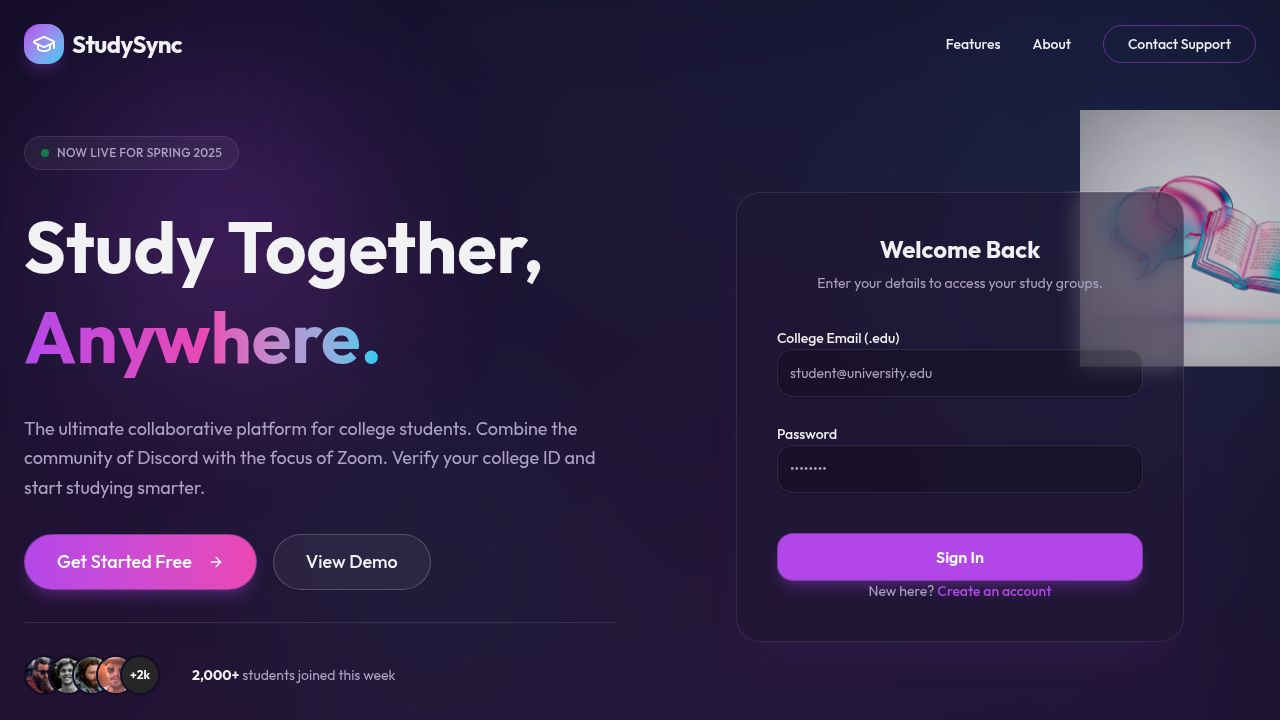
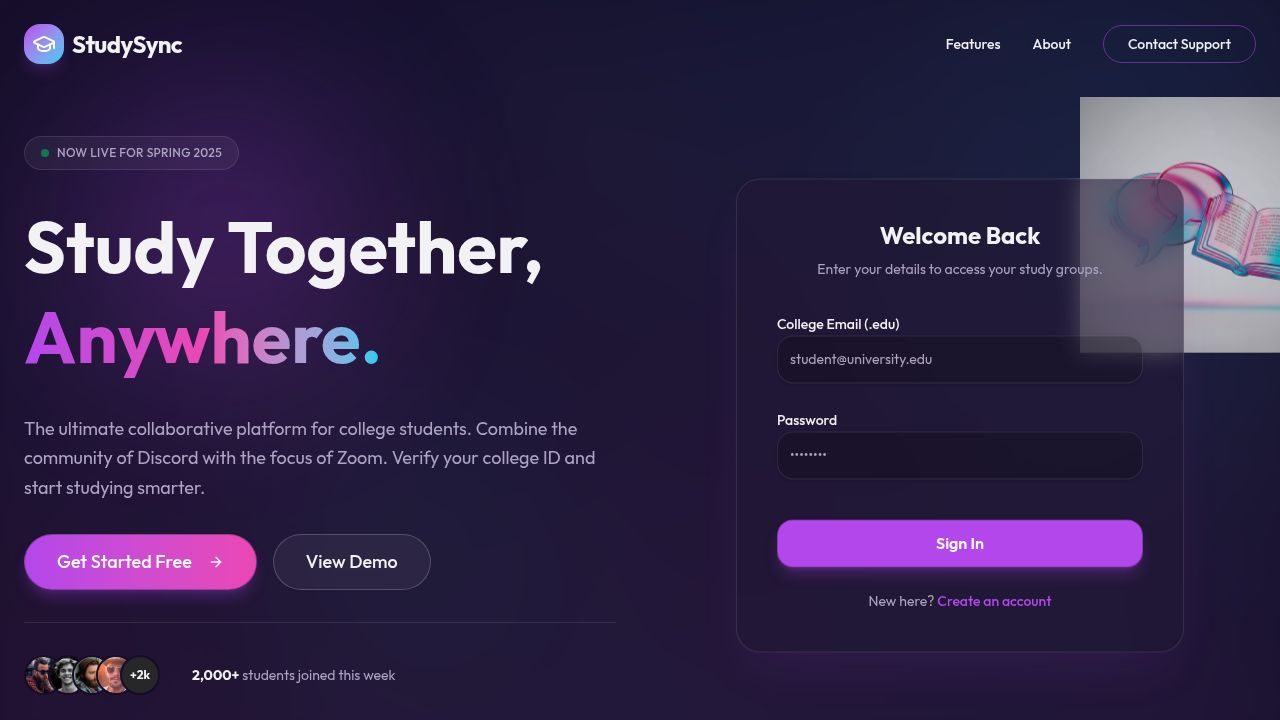
Implement functional user authentication and dynamic greetings
Add `AuthProvider` for session management, enable login/signup forms on the landing page, protect the dashboard route, and personalize the user greeting and sidebar.

Replit-Commit-Author: Agent
Replit-Commit-Session-Id: 78fc80a7-3054-41be-829c-ea40c7f12f6c
Replit-Commit-Checkpoint-Type: full_checkpoint
Replit-Commit-Event-Id: a67f6573-f6fc-462c-98bc-5af145c86a2e
Replit-Commit-Screenshot-Url: https://storage.googleapis.com/screenshot-production-us-central1/c158eb23-3ef2-40e6-8036-79693293e213/78fc80a7-3054-41be-829c-ea40c7f12f6c/43XoIW9
Replit-Helium-Checkpoint-Created: true

diff --git a/client/src/pages/Landing.tsx b/client/src/pages/Landing.tsx
@@ -1,6 +1,7 @@
 import { useState } from "react";
 import { Link } from "wouter";
 import { motion } from "framer-motion";
+import { useAuth } from "@/lib/auth";
 import { Button } from "@/components/ui/button";
 import { Input } from "@/components/ui/input";
 import { Label } from "@/components/ui/label";
@@ -10,7 +11,8 @@ import {
   Users, 
   ArrowRight, 
   CheckCircle2,
-  GraduationCap
+  GraduationCap,
+  Loader2
 } from "lucide-react";
 
 import heroBg from "@assets/generated_images/vibrant_abstract_gradient_background_with_glass_shapes.png";
@@ -18,6 +20,27 @@ import heroIcon from "@assets/generated_images/3d_glass_icon_of_a_study_group_ch
 
 export default function Landing() {
   const [isLogin, setIsLogin] = useState(true);
+  const { login, signup, isLoading } = useAuth();
+  
+  // Form State
+  const [email, setEmail] = useState("");
+  const [password, setPassword] = useState("");
+  const [collegeId, setCollegeId] = useState("");
+  const [name, setName] = useState("");
+
+  const handleSubmit = (e: React.FormEvent) => {
+    e.preventDefault();
+    if (isLogin) {
+      // For demo, we just need email to simulate "login"
+      // In real world, we'd check password
+      // Extracting name from email for demo personality
+      const demoName = email.split('@')[0] || "Student";
+      const formatName = demoName.charAt(0).toUpperCase() + demoName.slice(1);
+      login(formatName, email);
+    } else {
+      signup(name, email, collegeId);
+    }
+  };
 
   return (
     <div className="min-h-screen relative overflow-hidden text-foreground">
@@ -125,12 +148,30 @@ export default function Landing() {
               <p className="text-muted-foreground text-sm">Enter your details to access your study groups.</p>
             </div>
 
-            <form className="space-y-6" onSubmit={(e) => e.preventDefault()}>
+            <form className="space-y-6" onSubmit={handleSubmit}>
+              {!isLogin && (
+                <div className="space-y-2">
+                  <Label htmlFor="name">Full Name</Label>
+                  <Input 
+                    id="name" 
+                    placeholder="Jane Doe" 
+                    value={name}
+                    onChange={(e) => setName(e.target.value)}
+                    required
+                    className="bg-black/20 border-white/10 focus:border-primary/50 h-12 rounded-xl" 
+                  />
+                </div>
+              )}
+
               <div className="space-y-2">
                 <Label htmlFor="email">College Email (.edu)</Label>
                 <Input 
                   id="email" 
+                  type="email"
                   placeholder="student@university.edu" 
+                  value={email}
+                  onChange={(e) => setEmail(e.target.value)}
+                  required
                   className="bg-black/20 border-white/10 focus:border-primary/50 h-12 rounded-xl" 
                 />
               </div>
@@ -141,6 +182,9 @@ export default function Landing() {
                   <Input 
                     id="id" 
                     placeholder="12345678" 
+                    value={collegeId}
+                    onChange={(e) => setCollegeId(e.target.value)}
+                    required
                     className="bg-black/20 border-white/10 focus:border-primary/50 h-12 rounded-xl" 
                   />
                 </div>
@@ -152,19 +196,21 @@ export default function Landing() {
                   id="password" 
                   type="password" 
                   placeholder="••••••••" 
+                  value={password}
+                  onChange={(e) => setPassword(e.target.value)}
+                  required
                   className="bg-black/20 border-white/10 focus:border-primary/50 h-12 rounded-xl" 
                 />
               </div>
 
-              <Link href="/dashboard">
-                <Button className="w-full h-12 rounded-xl text-base font-semibold bg-primary hover:bg-primary/90 mt-4 shadow-lg shadow-primary/25">
-                  {isLogin ? "Sign In" : "Verify & Join"}
-                </Button>
-              </Link>
+              <Button type="submit" className="w-full h-12 rounded-xl text-base font-semibold bg-primary hover:bg-primary/90 mt-4 shadow-lg shadow-primary/25" disabled={isLoading}>
+                {isLoading ? <Loader2 className="w-5 h-5 animate-spin" /> : (isLogin ? "Sign In" : "Verify & Join")}
+              </Button>
               
               <div className="text-center text-sm">
                 <span className="text-muted-foreground">{isLogin ? "New here?" : "Already verified?"}</span>{" "}
                 <button 
+                  type="button"
                   onClick={() => setIsLogin(!isLogin)}
                   className="text-primary hover:underline font-medium"
                 >

diff --git a/client/src/lib/auth.tsx b/client/src/lib/auth.tsx
@@ -1,0 +1,78 @@
+import { createContext, useContext, useState, ReactNode, useEffect } from "react";
+import { useLocation } from "wouter";
+
+interface User {
+  name: string;
+  email: string;
+  collegeId?: string;
+  avatar: string;
+}
+
+interface AuthContextType {
+  user: User | null;
+  login: (name: string, email: string) => void;
+  signup: (name: string, email: string, collegeId: string) => void;
+  logout: () => void;
+  isLoading: boolean;
+}
+
+const AuthContext = createContext<AuthContextType | undefined>(undefined);
+
+export function AuthProvider({ children }: { children: ReactNode }) {
+  const [user, setUser] = useState<User | null>(null);
+  const [isLoading, setIsLoading] = useState(true);
+  const [, setLocation] = useLocation();
+
+  useEffect(() => {
+    // Simulate checking for a session
+    const storedUser = localStorage.getItem("studysync_user");
+    if (storedUser) {
+      setUser(JSON.parse(storedUser));
+    }
+    setIsLoading(false);
+  }, []);
+
+  const login = (name: string, email: string) => {
+    // Simulate API call
+    const mockUser = {
+      name: name || "Alex Johnson", // Default if just email provided
+      email,
+      avatar: `https://api.dicebear.com/7.x/avataaars/svg?seed=${name || "Alex"}`,
+    };
+    setUser(mockUser);
+    localStorage.setItem("studysync_user", JSON.stringify(mockUser));
+    setLocation("/dashboard");
+  };
+
+  const signup = (name: string, email: string, collegeId: string) => {
+    const mockUser = {
+      name,
+      email,
+      collegeId,
+      avatar: `https://api.dicebear.com/7.x/avataaars/svg?seed=${name}`,
+    };
+    setUser(mockUser);
+    localStorage.setItem("studysync_user", JSON.stringify(mockUser));
+    setLocation("/dashboard");
+  };
+
+  const logout = () => {
+    setUser(null);
+    localStorage.removeItem("studysync_user");
+    setLocation("/");
+  };
+
+  return (
+    <AuthContext.Provider value={{ user, login, signup, logout, isLoading }}>
+      {children}
+    </AuthContext.Provider>
+  );
+}
+
+export function useAuth() {
+  const context = useContext(AuthContext);
+  if (context === undefined) {
+    throw new Error("useAuth must be used within an AuthProvider");
+  }
+  return context;
+}

diff --git a/client/src/components/Layout.tsx b/client/src/components/Layout.tsx
@@ -12,6 +12,7 @@ import {
   MoreVertical
 } from "lucide-react";
 import { Link, useLocation } from "wouter";
+import { useAuth } from "@/lib/auth";
 import { Avatar, AvatarFallback, AvatarImage } from "@/components/ui/avatar";
 import { Button } from "@/components/ui/button";
 import { Input } from "@/components/ui/input";
@@ -25,6 +26,7 @@ import {
 
 export default function Layout({ children }: { children: React.ReactNode }) {
   const [location, setLocation] = useLocation();
+  const { user, logout } = useAuth();
 
   return (
     <div className="flex h-screen w-full overflow-hidden bg-background text-foreground">
@@ -94,13 +96,24 @@ export default function Layout({ children }: { children: React.ReactNode }) {
         </div>
 
         <div className="flex flex-col items-center gap-4 mt-auto">
-          <Button variant="ghost" size="icon" className="w-12 h-12 rounded-2xl text-muted-foreground hover:bg-white/5 hover:text-foreground">
-            <Settings className="w-6 h-6" />
-          </Button>
-          <Avatar className="w-10 h-10 border-2 border-primary/20">
-            <AvatarImage src="https://github.com/shadcn.png" />
-            <AvatarFallback>CN</AvatarFallback>
-          </Avatar>
+          <Tooltip>
+             <TooltipTrigger asChild>
+               <Button variant="ghost" size="icon" onClick={logout} className="w-12 h-12 rounded-2xl text-muted-foreground hover:bg-red-500/10 hover:text-red-500">
+                  <LogOut className="w-6 h-6" />
+               </Button>
+             </TooltipTrigger>
+             <TooltipContent side="right">Sign Out</TooltipContent>
+          </Tooltip>
+          
+          <Tooltip>
+             <TooltipTrigger asChild>
+               <Avatar className="w-10 h-10 border-2 border-primary/20 cursor-pointer hover:border-primary transition-colors">
+                  <AvatarImage src={user?.avatar || "https://github.com/shadcn.png"} />
+                  <AvatarFallback>{user?.name?.[0] || "U"}</AvatarFallback>
+               </Avatar>
+             </TooltipTrigger>
+             <TooltipContent side="right">{user?.name || "User"}</TooltipContent>
+          </Tooltip>
         </div>
       </aside>
 

diff --git a/client/src/pages/Dashboard.tsx b/client/src/pages/Dashboard.tsx
@@ -1,11 +1,24 @@
 import { dummyGroups, dummyActivities } from "@/lib/mockData";
-import { Link } from "wouter";
+import { Link, useLocation } from "wouter";
+import { useAuth } from "@/lib/auth";
+import { useEffect } from "react";
 import { Button } from "@/components/ui/button";
 import { motion } from "framer-motion";
 import { Users, Clock, ArrowUpRight, PlusCircle } from "lucide-react";
 import Layout from "@/components/Layout";
 
 export default function Dashboard() {
+  const { user, isLoading } = useAuth();
+  const [, setLocation] = useLocation();
+
+  useEffect(() => {
+    if (!isLoading && !user) {
+      setLocation("/");
+    }
+  }, [user, isLoading, setLocation]);
+
+  if (isLoading || !user) return null;
+
   return (
     <Layout>
       <div className="h-full overflow-y-auto p-6 md:p-8">
@@ -14,7 +27,7 @@ export default function Dashboard() {
           {/* Welcome Section */}
           <div className="flex flex-col md:flex-row justify-between items-start md:items-center gap-4">
             <div>
-              <h1 className="text-3xl font-bold mb-2">Hello, Alex 👋</h1>
+              <h1 className="text-3xl font-bold mb-2">Hello, {user.name.split(' ')[0]} 👋</h1>
               <p className="text-muted-foreground">Ready to crush your midterms? You have 3 study sessions today.</p>
             </div>
             <Button className="bg-primary hover:bg-primary/90 text-white rounded-xl h-11 px-6 shadow-lg shadow-primary/20">

diff --git a/client/src/App.tsx b/client/src/App.tsx
@@ -3,6 +3,7 @@ import { queryClient } from "./lib/queryClient";
 import { QueryClientProvider } from "@tanstack/react-query";
 import { Toaster } from "@/components/ui/toaster";
 import { TooltipProvider } from "@/components/ui/tooltip";
+import { AuthProvider } from "@/lib/auth";
 import NotFound from "@/pages/not-found";
 import Landing from "@/pages/Landing";
 import Dashboard from "@/pages/Dashboard";
@@ -24,10 +25,12 @@ function Router() {
 function App() {
   return (
     <QueryClientProvider client={queryClient}>
-      <TooltipProvider delayDuration={0}>
-        <Toaster />
-        <Router />
-      </TooltipProvider>
+      <AuthProvider>
+        <TooltipProvider delayDuration={0}>
+          <Toaster />
+          <Router />
+        </TooltipProvider>
+      </AuthProvider>
     </QueryClientProvider>
   );
 }
